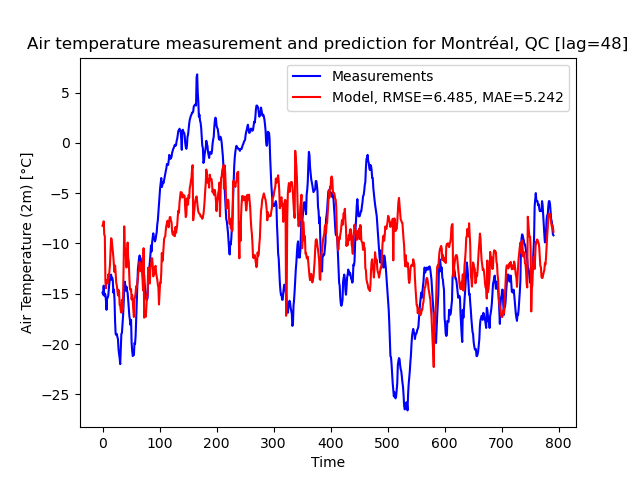
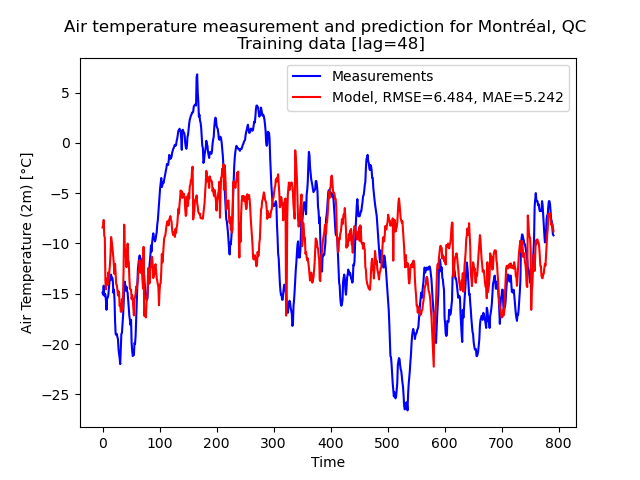
better plot legends

diff --git a/code/project_paul.py b/code/project_paul.py
@@ -101,7 +101,7 @@ def preprocess(df: pd.DataFrame) -> pd.DataFrame:
     doy = df.index.dayofyear.to_numpy()
     omega_y = 2 * math.pi / 365.25
     # TODO: Student can add whatever you like to the dataset here
-
+    
     return df
 
 # TODO: Students you might find this function useful
@@ -199,7 +199,7 @@ if __name__ == "__main__":
         plt.legend()
         plt.ylabel('Air Temperature (2m) [°C]')
         plt.xlabel('Time')
-        plt.title(f'Air temperature measurement and prediction for Montréal, QC [lag={lag}]')
+        plt.title(f'Air temperature measurement and prediction for Montréal, QC \n Training data [lag={lag}]')
         plt.savefig(f'plots/paul/train_lag{lag}.png')
         plt.grid(True)
         plt.show()
@@ -222,7 +222,7 @@ if __name__ == "__main__":
         plt.legend()
         plt.ylabel('Air Temperature (2m) [°C]')
         plt.xlabel('Time')
-        plt.title(f'Air temperature measurement and prediction for Montréal, QC [lag={lag}]')
+        plt.title(f'Air temperature measurement and prediction for Montréal, QC \n Control data [lag={lag}]')
         plt.savefig(f'plots/paul/control_lag{lag}.png')
         plt.grid(True)
         plt.show()
